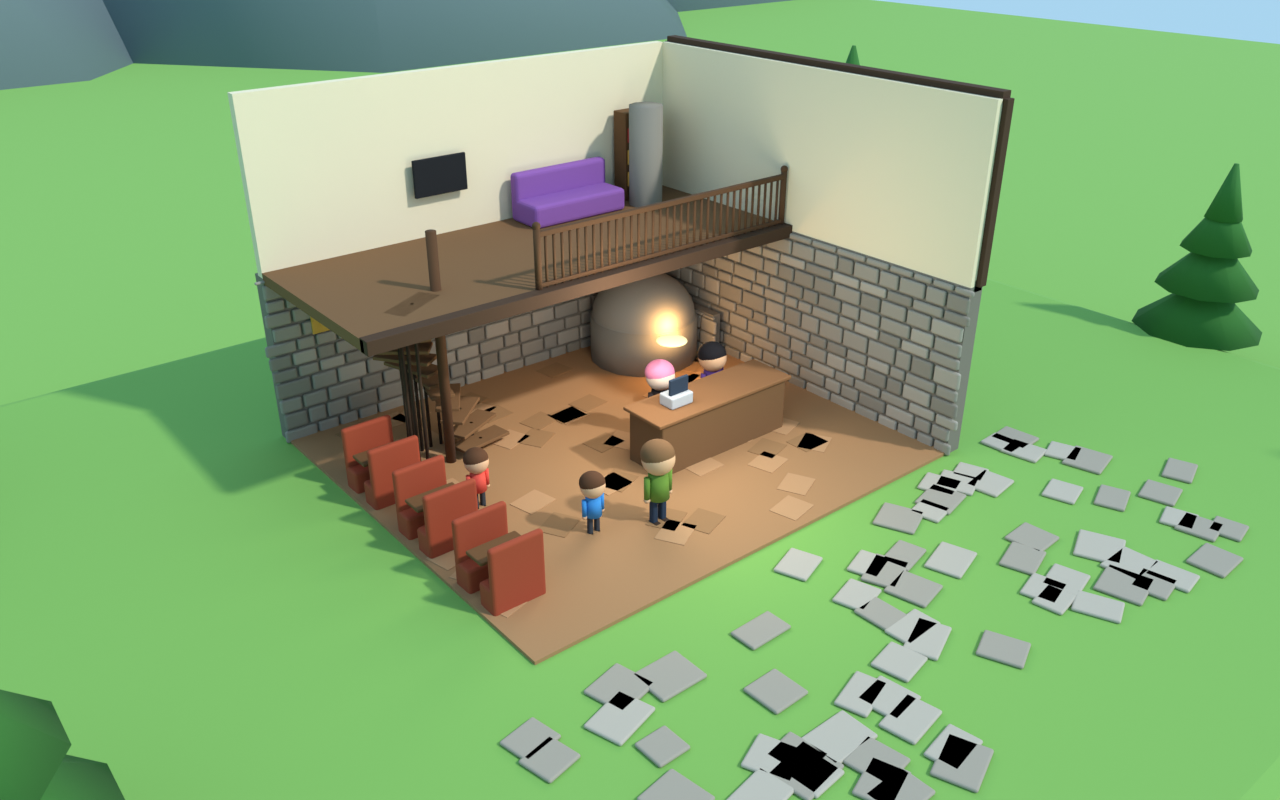
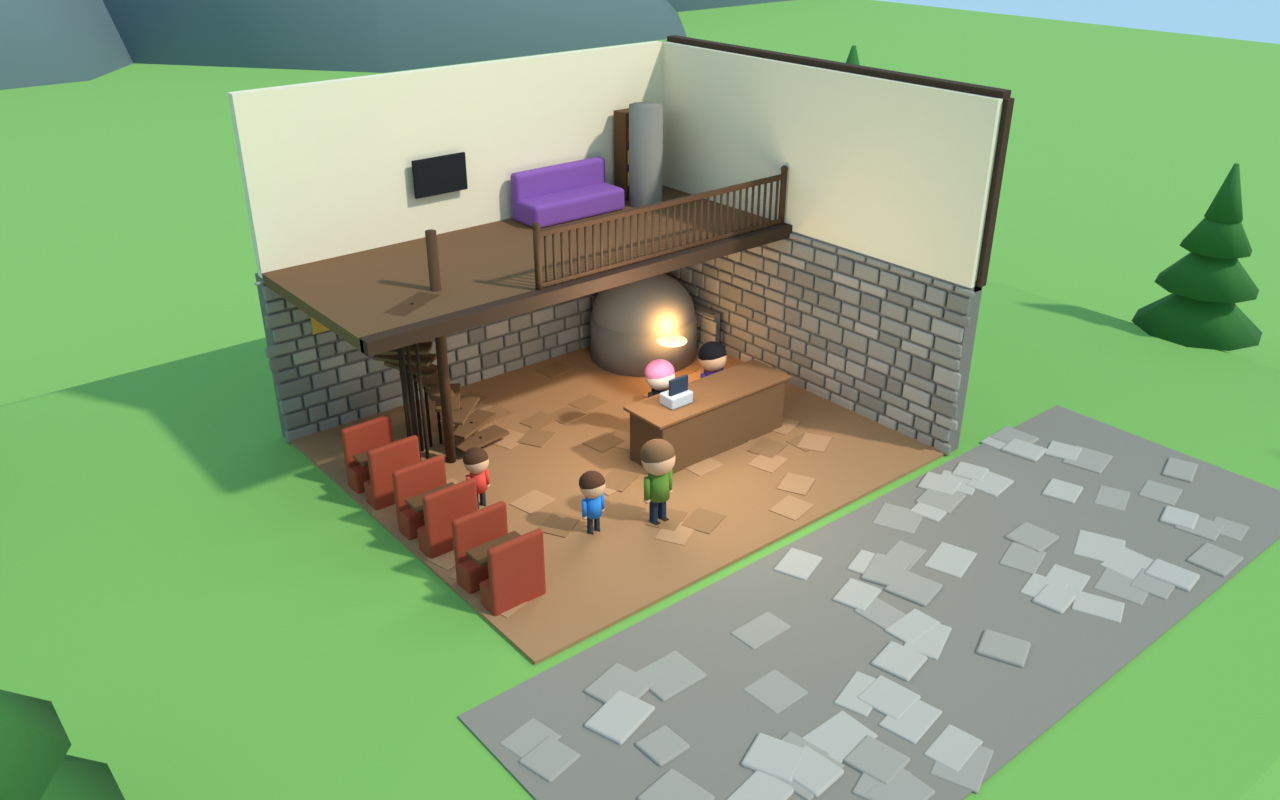
Summit Slice concept: cobbles and floor tiles at staggered heights (no flicker), a proper lean-to roof on the annex
Claude-Session: https://claude.ai/code/session_01AhHjg2zGLBS9XHge4JaZVX

diff --git a/world-refresh/blender/store_slice.py b/world-refresh/blender/store_slice.py
@@ -17,7 +17,8 @@ def build(night, cut):
     path_up([(-10, -12), (-8.8, -7), (-6.0, -4.6), (-2.6, -3.0)], 0.0, B, seed=9)
     # the cobbled patio before the front
     rnd = random.Random(3)
-    for i in range(70): box(rnd.uniform(-5.5, 7.5), rnd.uniform(-2.8, 1.6), B, rnd.uniform(0.5, 0.8), rnd.uniform(0.45, 0.7), 0.06, '#b9b2a6' if rnd.random() < 0.6 else '#a59e92', rot=rnd.uniform(0, 0.4), bevel=0.04)
+    box(1.0, -0.6, B, 13.6, 4.8, 0.03, '#8f887c', bevel=0)   # (the bed the cobbles sit in)
+    for i in range(70): box(rnd.uniform(-5.5, 7.5), rnd.uniform(-2.8, 1.6), B, rnd.uniform(0.5, 0.8), rnd.uniform(0.45, 0.7), 0.04 + i * 0.0006, '#b9b2a6' if rnd.random() < 0.6 else '#a59e92', rot=rnd.uniform(0, 0.4), bevel=0.04)
     for x, y, s in ((-12, 12, 1.4), (-11, 2, 1.1), (13, 12, 1.3), (14, 2, 1.0), (12, -7, 1.2)): tree(x, y, B if abs(x) < 12.5 else 0, s, col='#2f5a35' if night else '#3f7a3a')
     # ---- walls: stone ground storey, plaster and timber above
     keepW = not cut
@@ -82,8 +83,9 @@ def build(night, cut):
     AX0, AX1, AY0, AY1 = X1, X1 + 3.4, 2.8, 8.5
     if not cut:
         stone_wall(AX0, AX1, AY0 - 0.35, B, B + 3.6, seed=51); stone_wall(AY0, AY1, AX1, B, B + 3.0, seed=52, axis='y')
-        o = box((AX0 + AX1) / 2 + 0.2, (AY0 + AY1) / 2, B + 3.2, AX1 - AX0 + 0.9, AY1 - AY0 + 1.0, 0.18, '#566069', bevel=0); o.rotation_euler = (0, 0.18, 0)
-        for k in range(10): ball(AX0 + rnd.uniform(0.3, 3.2), rnd.uniform(AY0 - 0.3, AY1), B + 3.75 - 0.18 * (rnd.uniform(0.3, 3.2)), rnd.uniform(0.18, 0.35), MOSS, sz=0.35)
+        rv = [(AX0, AY0 - 0.6, B + 3.95), (AX1 + 0.45, AY0 - 0.6, B + 3.05), (AX1 + 0.45, AY1 + 0.4, B + 3.05), (AX0, AY1 + 0.4, B + 3.95)]
+        mesh(rv + [(x, y, z + 0.16) for (x, y, z) in rv], [(0, 1, 2, 3), (7, 6, 5, 4), (0, 4, 5, 1), (1, 5, 6, 2), (2, 6, 7, 3), (3, 7, 4, 0)], '#566069')   # the lean-to roof, high at the house
+        for k in range(10): u = rnd.uniform(0.3, 3.2); ball(AX0 + u, rnd.uniform(AY0 - 0.3, AY1), B + 4.12 - 0.9 * u / 3.85, rnd.uniform(0.18, 0.35), MOSS, sz=0.35)
         box(6.2, AY0 - 0.4, B, 1.1, 0.1, 2.3, '#3a3236', bevel=0.02); beam((5.55, AY0 - 0.45, B + 2.35), (6.85, AY0 - 0.45, B + 2.35), 0.14, TIM)
         box(6.2, AY0 - 0.48, B + 1.15, 0.7, 0.04, 0.85, '#1a0f2a', emit=0, bevel=0.02)
         text('SUMMIT', 6.2, AY0 - 0.51, B + 1.65, 0.14, '#ff6fd8', emit=6 if night else 2.5, ext=0.01)
@@ -95,7 +97,7 @@ def build(night, cut):
     # ---- inside
     box(0, (Y0 + Y1) / 2, B, X1 - X0, Y1 - Y0, 0.06, '#3a2a40' if night else '#a8805a', bevel=0)
     rnd2 = random.Random(8)
-    for i in range(60): box(rnd2.uniform(X0 + 0.3, X1 - 0.3), rnd2.uniform(Y0 + 0.3, Y1 - 0.3), B + 0.06, 0.6, 0.5, 0.01, ('#4a3656' if night else '#b9906a') if rnd2.random() < 0.5 else ('#2f2238' if night else '#9a7652'), rot=rnd2.uniform(0, 0.5), bevel=0)
+    for i in range(60): box(rnd2.uniform(X0 + 0.3, X1 - 0.3), rnd2.uniform(Y0 + 0.3, Y1 - 0.3), B + 0.06, 0.6, 0.5, 0.008 + i * 0.0002, ('#4a3656' if night else '#b9906a') if rnd2.random() < 0.5 else ('#2f2238' if night else '#9a7652'), rot=rnd2.uniform(0, 0.5), bevel=0)
     BOOTH = '#5a2f7a' if night else '#a0472f'
     for y in (3.2, 5.0, 6.8):   # booths along the west wall
         box(X0 + 0.55, y, B, 0.9, 0.12, 1.15, BOOTH, bevel=0.05); box(X0 + 0.55, y + 0.95, B, 0.9, 0.12, 1.15, BOOTH, bevel=0.05)
